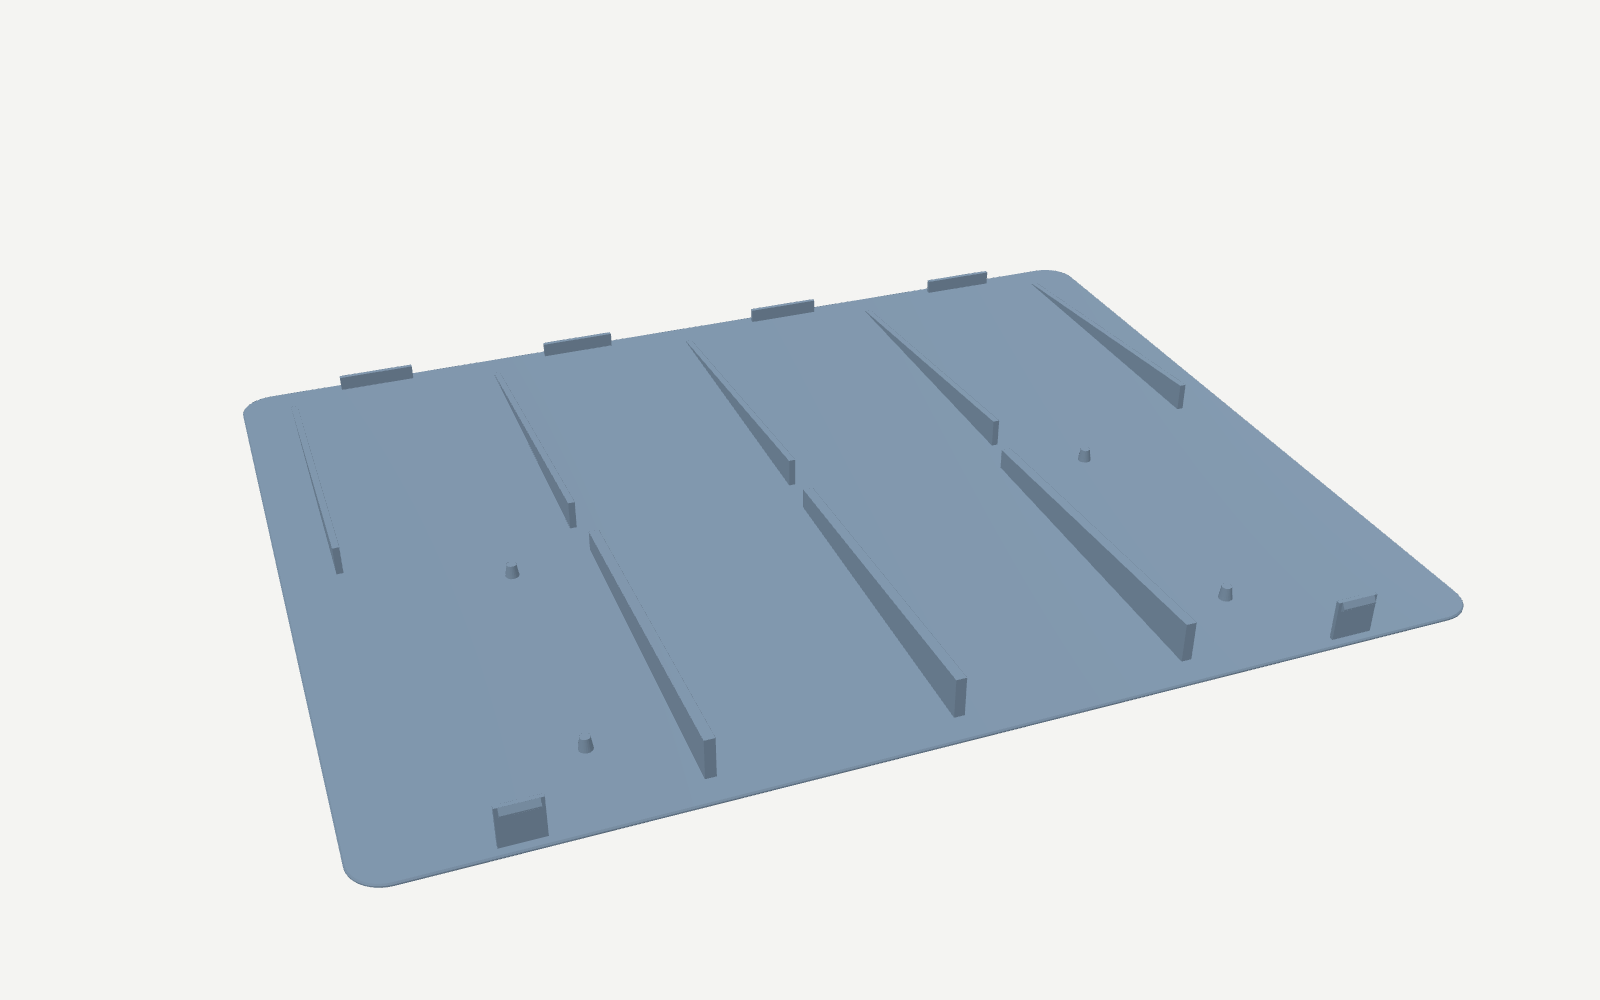
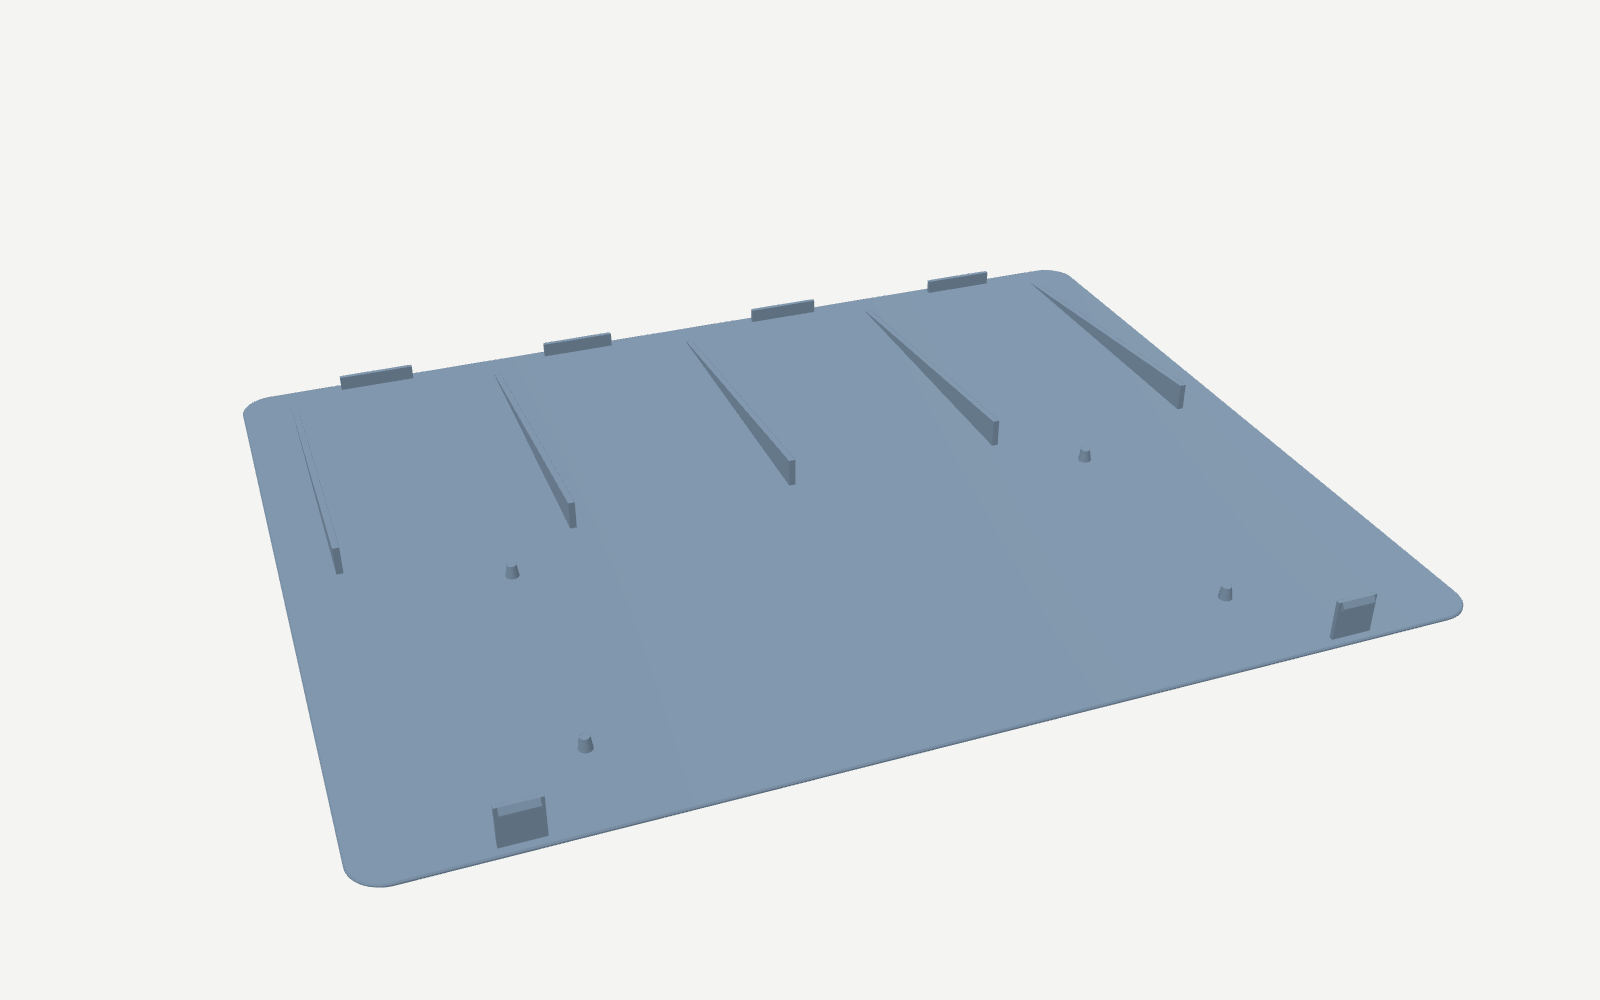
Revert the trackpad lip: back to glass 0.3 mm below the deck
The user prefers the previous design (trackpad held by the printed spring fingers,
loaded from the top, glass 0.3 mm below the deck top) over a lip that stops it when
the deck is turned over. Restores the state of 4a0f323.

This reverts commit 8eb6d81.

Claude-Session: https://claude.ai/code/session_0125RHN1ndJxSjpgApcjDeFi

diff --git a/cad/deck.py b/cad/deck.py
@@ -255,10 +255,9 @@ def top_case():
         cuts.append(box(x0 - 1, x1 + 1, b["notch"][0], b["notch"][1], P.COVER_T - 1, P.COVER_T + P.NOTCH_H))
     body = fuse(body, [walls] + adds)
     # keep the device spaces clear
-    z_pocket = (P.H - P.LIP_T) if P.TP_LIP > 0 else P.z_in_top      # pocket reaches up to the lip underside
-    body = cut(body, [prism(bay(), -1, P.z_kb_top), prism(ring(), -1, z_pocket),
+    body = cut(body, [prism(bay(), -1, P.z_kb_top), prism(ring(), -1, P.z_in_top),
                       prism(tp_off(P.TP_CLR), P.z_in_top - 0.2, P.H + 1)])   # walls overlap the panel by 0.05
-    body = fuse(body, crush_ribs() + (holders() if P.LID else []))
+    body = fuse(body, crush_ribs() + (tp_rail_solids() + holders() if P.LID else []))
     if P.LID:
         cuts += lid_cuts()
     else:
@@ -354,21 +353,21 @@ def holder_specs():
     gap_b = (P.D - P.WALL) - (kb_tb - (P.z_kb_top - zb1) * tana_k)
     for xc in (80.0, P.W / 2, P.W - 80.0):
         s.append(("spring", "kb", (xc - L_ / 2, P.D - P.WALL), (1, 0), (0, -1), gap_b + pre, zb0, zb1, True))
-    # --- trackpad (pushed in from below, glass first, onto the lip: lead-in at the low end)
+    # --- trackpad (dropped in from the top: lead-in at the high end); springs as tall as the side allows
     L, R, F, B = P.TP_RING
-    z1t = min(P.z_in_top - 0.2, P.z_tp_top - 1.5)         # stay below the glass layer
+    z1t = P.z_in_top - 0.2
     cx = (P.tp_gx0 + P.tp_gx1) / 2
     for yc in (P.tp_gy0 + 30.0, P.tp_gy1 - 30.0):
         z0 = P.tp_bottom(yc - L_ / 2) + 0.5                 # bottom of the side face is highest at the front end
-        s.append(("spring", "tp", (P.tp_gx0 - L, yc - L_ / 2), (0, 1), (1, 0), L + pre, z0, z1t, True))
-        s.append(("spring", "tp", (P.tp_gx1 + R, yc - L_ / 2), (0, 1), (-1, 0), R + pre, z0, z1t, True))
+        s.append(("spring", "tp", (P.tp_gx0 - L, yc - L_ / 2), (0, 1), (1, 0), L + pre, z0, z1t, False))
+        s.append(("spring", "tp", (P.tp_gx1 + R, yc - L_ / 2), (0, 1), (-1, 0), R + pre, z0, z1t, False))
     z0f = P.tp_bottom(P.tp_gy0 - P.tp_lean_f) + 0.5
     lean_lo = (P.z_tp_top - z0f) * tana_t                  # front face sticks out most at its bottom
     z0b = P.tp_bottom(P.tp_gy1) + 0.5
     lean_hi = (P.z_tp_top - z1t) * tana_t                  # back face sticks out most at its top
     for xc in (cx - 45.0, cx + 45.0):
-        s.append(("spring", "tp", (xc - L_ / 2, P.tp_gy0 - F), (1, 0), (0, 1), F - lean_lo + pre, z0f, z1t, True))
-        s.append(("spring", "tp", (xc - L_ / 2, P.tp_gy1 + B), (1, 0), (0, -1), B + lean_hi + pre, z0b, z1t, True))
+        s.append(("spring", "tp", (xc - L_ / 2, P.tp_gy0 - F), (1, 0), (0, 1), F - lean_lo + pre, z0f, z1t, False))
+        s.append(("spring", "tp", (xc - L_ / 2, P.tp_gy1 + B), (1, 0), (0, -1), B + lean_hi + pre, z0b, z1t, False))
     return s
 
 
@@ -466,9 +465,12 @@ def kb_rail_solids():
 
 @lru_cache(None)
 def _tp_rails():
-    """Trackpad rails, carried by the cover / tray (wider on the service tray: they take the clicks)."""
-    w = 3.0 if P.SVC else 2.0
-    r = [rail(x, P.tp_gy0 + 4, P.tp_gy1 - 4, lambda y: P.tp_bottom(y) - P.TP_PAD, width=w) for x in P.tp_rails]
+    if P.LID:   # full-height ribs of the lid, from wall to wall of the pocket, bearing on the tray
+        y0 = P.tp_gy0 - P.TP_RING[2] - 0.3
+        y1 = P.tp_gy1 + P.TP_RING[3] + 0.3
+        r = [rail(x, y0, y1, lambda y: P.tp_bottom(y) - P.TP_PAD, width=3.0, zb=P.COVER_T) for x in P.tp_rails]
+    else:
+        r = [rail(x, P.tp_gy0 + 4, P.tp_gy1 - 4, lambda y: P.tp_bottom(y) - P.TP_PAD) for x in P.tp_rails]
     return tuple(q for q in r if q is not None)
 
 
@@ -478,7 +480,7 @@ def tp_rail_solids():
 
 def rails():
     """Rails carried by the cover/tray."""
-    return kb_rail_solids() + tp_rail_solids()
+    return kb_rail_solids() + ([] if P.LID else tp_rail_solids())
 
 
 def keepers():

diff --git a/cad/check.py b/cad/check.py
@@ -93,16 +93,6 @@ def main():
         line(max(v for _, v in hit) < 0.5, "lid (with the Joro and trackpad inside) swings open about the back edge "
              "without hitting the tray: " + ", ".join(f"{a}deg {v:.1f}" for a, v in hit) + " mm3")
 
-        if P.TP_LIP > 0:
-            print("== trackpad lip (the top opening is smaller than the trackpad)")
-            v0 = overlap(_Pos(0, 0, P.TP_LIP_GAP - 0.05) * tp, top) - overlap(tp, top)
-            v1 = overlap(_Pos(0, 0, P.TP_LIP_GAP + 0.15) * tp, top) - overlap(tp, top)
-            line(v0 < 0.5 < v1, f"glass clears the lip by {P.TP_LIP_GAP} mm in use (no clamping); turned over, the "
-                                f"trackpad stops on the lip ({v1:.0f} mm3 overlap when pushed {P.TP_LIP_GAP + 0.15:.2f} up)")
-            worst = P.TP_LIP - 0.004 * (P.TP_W - 2 * P.TP_LIP) / 2
-            line(worst >= 0.3, f"lip overlaps the glass edge by {P.TP_LIP:.2f} nominal, {worst:.2f} worst case (needs >= 0.3)")
-            note(f"glass sits {P.TP_DROP:.2f} mm below the deck top (lip {P.LIP_T} + play {P.TP_LIP_GAP})")
-
         print("== printed spring fingers (opposing pairs centre each device; nothing to buy)")
         specs = Dk.holder_specs()
         for (kind, dev, o, u, n, r, z0, z1, low), h in zip(specs, Dk.holders()):
@@ -149,9 +139,8 @@ def main():
         kf_len = max(P.kf_x1 - P.kf_x0, P.kf_y1 - P.kf_y0)
         left = P.KEY_CLR - tol * kf_len / 2
         line(left >= 0.15, f"key caps -> opening edge: {P.KEY_CLR:.2f} nominal, {left:.2f} worst case (needs >= 0.15)")
-        if P.TP_CLR > 0:
-            left = P.TP_CLR - tol * (P.TP_W + 2 * P.TP_CLR) / 2
-            line(left >= 0.1, f"trackpad -> opening edge: {P.TP_CLR:.2f} nominal, {left:.2f} worst case (needs >= 0.10)")
+        left = P.TP_CLR - tol * (P.TP_W + 2 * P.TP_CLR) / 2
+        line(left >= 0.1, f"trackpad -> opening edge: {P.TP_CLR:.2f} nominal, {left:.2f} worst case (needs >= 0.10)")
         left = P.KB_CLR - tol * (P.KB_W + 2 * P.KB_CLR) / 2
         line(left >= 0.2, f"Joro -> bay wall: {P.KB_CLR:.2f} nominal, {left:.2f} worst case (needs >= 0.20; springs fill it)")
         left = P.tp_ring_in - tol * (P.TP_W + 2 * P.tp_ring_in) / 2

diff --git a/cad/params.py b/cad/params.py
@@ -53,14 +53,9 @@ WALL = 2.4                           # outer side wall
 COVER_T = 1.6                        # bottom cover plate
 COVER_GAP = 0.5 if SVC else 0.2      # cover <-> wall gap, per side
 KB_PAD = 0.4 if SVC else 0.5         # rail -> Joro gap (service: bare backstop; the spring fingers hold the Joro up)
-TP_PAD = 0.0 if SVC else 0.5         # rail -> trackpad gap (service: the trackpad rests directly on the tray's rails)
-# service: the top opening is smaller than the trackpad, so a thin lip overhangs the glass edge and the trackpad
-# cannot slide out of the top when the deck is turned over. It is loaded from below; the lip never clamps the glass.
-TP_LIP = 0.8 if SVC else 0.0         # how far the lip overhangs the glass edge
-LIP_T = 0.8                          # lip thickness (MJF minimum wall)
-TP_LIP_GAP = 0.25                    # free play between the glass and the lip underside (no clamping of the glass)
-TP_DROP = (LIP_T + TP_LIP_GAP) if SVC else 0.3   # trackpad glass below the deck top
-TP_CLR = -TP_LIP if SVC else 0.3     # opening offset from the glass outline (negative = lip)
+TP_PAD = 0.0 if SVC else 0.5         # rail -> trackpad gap (service: trackpad sits directly on the lid's rails)
+TP_DROP = 0.3                        # trackpad glass below the deck top
+TP_CLR = 0.5 if SVC else 0.3         # visible gap glass <-> top opening
 TP_RING_CLR = 0.5                    # fdm: pocket wall <-> glass outline on all sides
 # service: pocket wall offsets (left, right, front, back); opposing spring fingers on all four sides centre it
 TP_RING = (2.0, 2.0, 2.3, 2.0)                # front +0.3: the tilted front face leans out ~0.25
@@ -160,7 +155,7 @@ z_in_top = H - SKIN                  # underside of the panel (palm area)
 # --- trackpad, channel, seam rib --------------------------------------------------------
 tp_gx0 = (W - TP_W) / 2              # glass outline
 tp_gx1 = tp_gx0 + TP_W
-tp_gy0 = max(FRONT_MARGIN + TP_CLR, WALL + TP_RING[2]) if SVC else FRONT_MARGIN + TP_CLR   # keep the front wall whole
+tp_gy0 = FRONT_MARGIN + TP_CLR
 tp_gy1 = tp_gy0 + tp_top_len
 if SVC:
     _rb = max(TP_RING[3], TP_BACK_PROTRUSION + 1.5)

diff --git a/cad/build.py b/cad/build.py
@@ -69,7 +69,7 @@ ORDER_NOTE = """Joro + Magic Trackpad 主板 - 打印订单说明 / Order notes
 工艺/材料 Process: MJF 尼龙 PA12 (HP) / MJF PA12 nylon. 染黑或本色灰 / Dyed black, or natural grey.
 数量 Qty: 各 1 件 / 1 of each.
 不需要螺纹嵌件、铜螺母、攻牙（设计里没有螺丝）/ No threaded inserts, no tapping (the design uses no screws).
-不要打磨或额外后处理：零件上有 1 mm 的弹片、卡扣，触控板开口有 0.8 mm 薄边 / No sanding or extra post-processing: 1 mm spring fingers, snap clips and a 0.8 mm lip around the trackpad opening.
+不要打磨或额外后处理：零件上有 1 mm 的弹片和卡扣 / No sanding or extra post-processing: the parts have 1 mm spring fingers and snap clips.
 外观面 Cosmetic face: 上壳顶面（有两个大开口的平面）/ the flat top face of top_case (the one with the two large openings).
 包装 Packing: 两件平放，用泡棉或纸板夹住，防止运输中压弯、划伤顶面。寄往澳大利亚。
               Pack both parts flat between foam or cardboard so they cannot bend; the top face must not be scratched. Shipping to Australia.

diff --git a/tools/make_images.py b/tools/make_images.py
@@ -81,16 +81,9 @@ def main(which=None):
         cut_ = Dk.box(sx - 0.1, sx + 30, -2, 30, -1, 25)
         render([(top & cut_, CASE), (cov & cut_, COVER)], os.path.join(IMG, PFX + "snap.png"),
                dict(pos=(sx - 120, 12, 10), target=(sx, 8, 8), ortho=26, up=(0, 0, 1)), size=(1200, 900))
-    def lip():
-        xs = P.tp_gx0 + 40.0                                    # section through the front edge of the trackpad
-        half = Dk.box(xs - 40, xs, -2, 30, -1, 25)
-        render([(top & half, CASE), (cov & half, COVER), (tp & half, TP)], os.path.join(IMG, PFX + "lip.png"),
-               dict(pos=(xs + 300, 12, 14), target=(xs, 12, 14), ortho=16, up=(0, 0, 1)), size=(1400, 900))
     if P.LID:
         jobs["lid"] = lid_open
         jobs["details"] = details
-        if P.TP_LIP > 0:
-            jobs["lip"] = lip
 
     def fits():
         kl, kr = Dk.fit_keyboard()

diff --git a/docs/order_guide.md b/docs/order_guide.md
@@ -55,14 +55,8 @@
   ![snap](img/svc_snap.png)
 - **键盘和触控板怎么固定**：
   - 上壳里有一圈打印出来的弹片（下图橙色），从两侧和前后把设备往中间推。所以设备自动居中，打印误差也被弹片吃掉了。
-  - 键盘：前边靠在隔筋上，左右和后边各有弹片。上面被面板压住，只露出键帽。
-  - 触控板：
-    - 四边都有弹片，底下坐在底盘的三条支撑条上。
-    - 上面的开口比触控板小一圈，留出 0.8 mm 宽的薄边压在玻璃边缘上方（见下面剖面图）。这样整个主板倒过来，触控板也掉不出来。
-    - 平时玻璃和薄边之间留 0.25 mm 间隙，薄边不压玻璃，不影响按压和 Force Touch。
-    - 代价是玻璃比面板低约 1.05 mm（原来是 0.3 mm）；四周看不到缝了，因为玻璃边缘被薄边盖住。
-
-  ![lip](img/svc_lip.png)
+  - 键盘：前边靠在隔筋上，左右和后边各有弹片。
+  - 触控板：四边都有弹片，底下直接坐在上壳自带的三条支撑条上，所以玻璃比面板低 0.3 mm。
 
   ![springs](img/svc_springs.png)
 
@@ -71,27 +65,25 @@
 1. 主板前缘正中有一个手指凹口。手指伸进去，把上壳前沿往上掀，"咔"一声，两个卡扣松开。
 2. 上壳绕后边的挂钩往上翻，翻起来以后往前、往上提，整个拿下来。
 3. **触控板**：
-   - 一手托住拿下来的上壳（正面朝上），另一手从上面的开口按住玻璃往下推，触控板会从上壳下面出来。用托着的手接住它。
+   - 从上壳下面，在三条支撑条之间用手指往上顶，触控板会从上面的开口出来。
    - 弹片有点紧，均匀用力即可。
 4. **键盘**：
-   - 键盘一般被弹片夹在上壳里。用同样的方法：从上面按住键盘两端的键帽往下推，或者把上壳翻过来从下面拿出。
+   - 键盘一般被弹片夹在上壳里。把上壳翻过来（面朝下放在软布上），从下面把键盘拿出来。
    - 也可能留在底盘上，那就直接拿起来。
 
 ### 装回
 
-1. 上壳面朝下放在软布上。
-2. 把键盘键帽朝下压进键盘槽，让它碰到面板。弹片会把它夹住、推到中间。
-3. 把触控板玻璃朝下压进触控板口袋，直到玻璃碰到开口四周的薄边。弹片同样会把它夹住、推到中间。
-4. 拿底盘：
+1. 上壳面朝下放在软布上，把键盘键帽朝下压进键盘槽，让它碰到面板。弹片会把它夹住、推到中间。
+2. 拿底盘：
    1. 先把底盘后边的 4 个挂钩伸进上壳后墙里面的槽。
    2. 再放下前面，按住前缘两侧，听到两声"咔"就是卡好了。
-5. 把整个主板翻回正面。
+3. 把整个主板翻回正面。
+4. 把触控板从上面的开口放进去，轻轻往下按，直到它坐到支撑条上。按的时候能感到弹片的阻力，按到底后玻璃比面板略低。
 
 ## 收到件后先检查
 
 - 上壳顶面平整，没有明显翘曲：放在玻璃桌面上，四角不应该晃。
 - 弹片都完整（键盘槽 7 片，触控板口袋 8 片），用手指拨一下能弹回来。
-- 触控板开口四周的薄边完整，没有缺口。
 - 底盘前面 2 个卡扣、后边 4 个挂钩、4 根定位销都没有断。
 - 先不放设备，空试一次开合：上壳能挂上、能卡住、能掀开。
 
@@ -99,4 +91,4 @@
 
 按上面"装回"的步骤做即可，不需要任何工具或材料。
 
-装好后，手指从面板滑到触控板上会感到大约 1 mm 的台阶，这是正常的（防止触控板倒过来时掉出来的薄边）。
+如果触控板玻璃高度不理想（理想状态是手指从面板滑到玻璃上能感到很轻微的台阶），告诉我实际差多少，下一版改支撑条高度。打印件本身不需要再加垫片。

diff --git a/README.md b/README.md
@@ -1,6 +1,6 @@
 # joropad
 
-Razer Joro + Apple Magic Trackpad（USB-C）组合成的笔记本式主板，用 3D 打印制作。顶面完全水平，只露出键帽；触控板开口四周有 0.8 mm 的薄边压在玻璃边缘上方，倒过来也掉不出来（玻璃比面板低约 1 mm）。整个上壳是一个卡扣固定的盖子，掀开就能拿出键盘和触控板去充电。只有两个打印件，不需要螺丝、磁铁、泡棉、胶水等任何额外材料。
+Razer Joro + Apple Magic Trackpad（USB-C）组合成的笔记本式主板，用 3D 打印制作。顶面完全水平，只露出键帽；触控板玻璃比面板低 0.3 mm。整个上壳是一个卡扣固定的盖子，掀开就能拿出键盘和触控板去充电。只有两个打印件，不需要螺丝、磁铁、泡棉、胶水等任何额外材料。
 
 ![deck](docs/img/svc_hero.png)
 ![open](docs/img/svc_lid_open.png)
